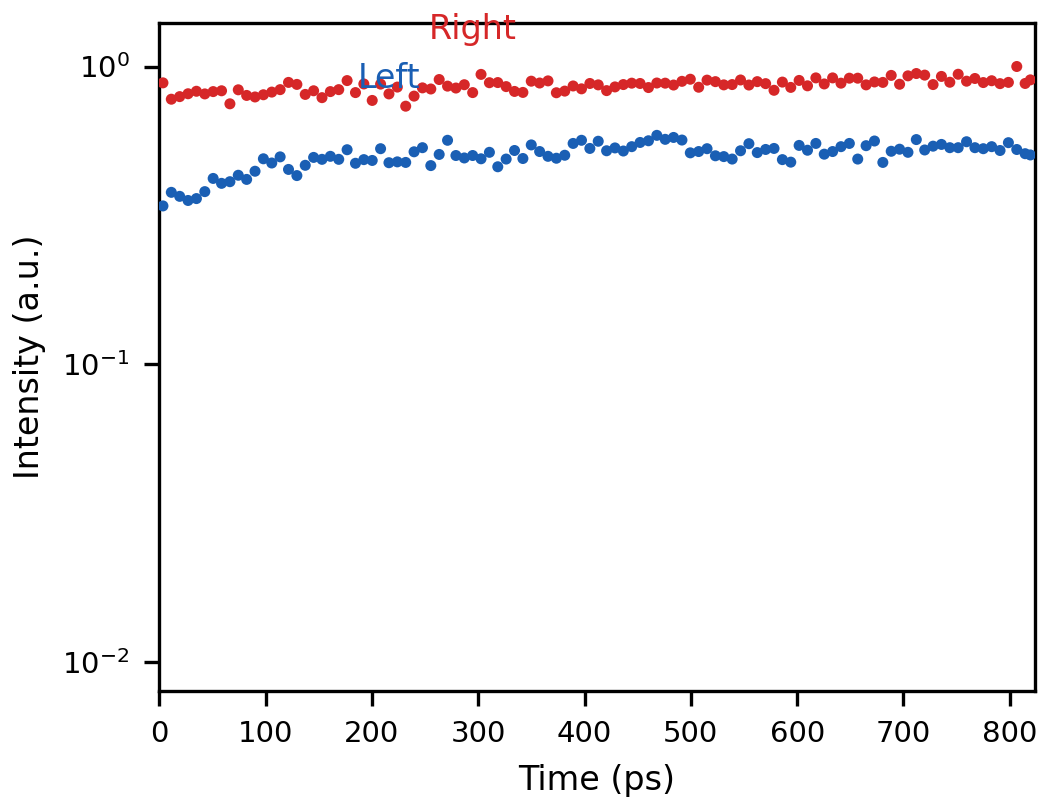
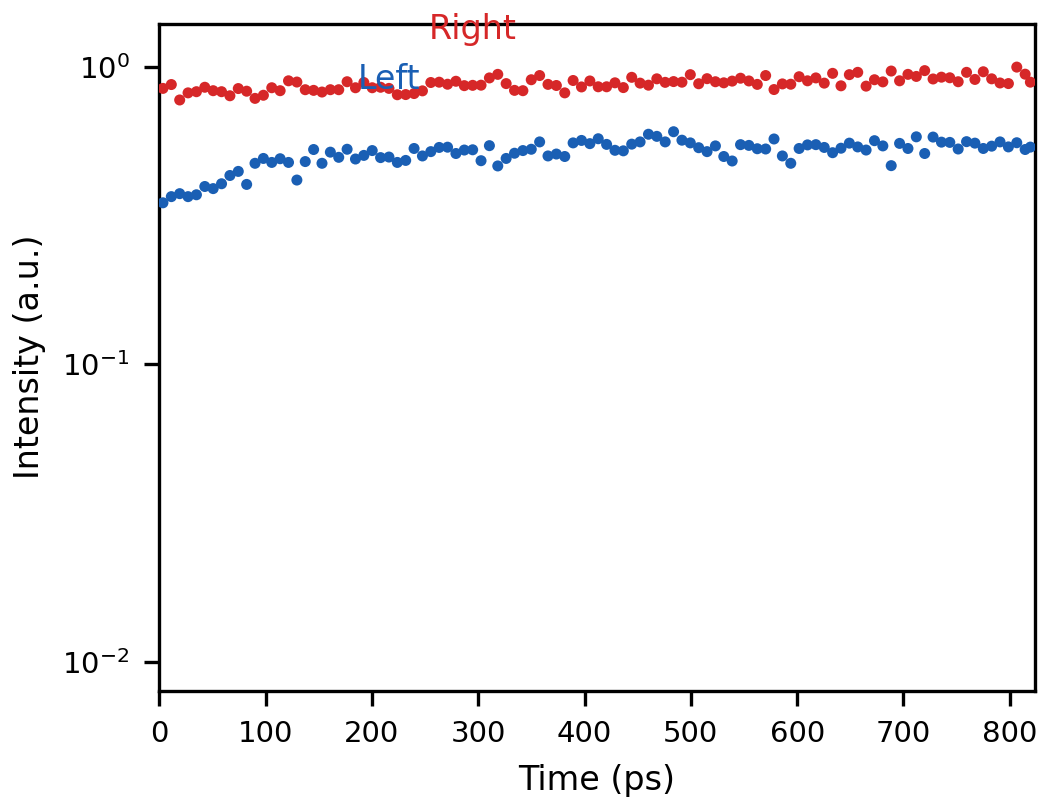
docs+定稿图: CFD50 全量重跑 Fig. 2(a) 管线, 实空间零结果不变
- 全 20000 帧 CFD50 重跑 (8 帧 t0 失败): 带检测/配对不变,
  t0 中位行 154.78 (较质心 -2.78 px)
- 零结果坐实: 两臂 z 相关 r=0.030/0.095 (p=0.525/0.145),
  3-200 ps 正弦振幅 95% 上限中位 0.0123/最差 0.0193,
  37.2/41.8 ps 处上限 0.011/0.012
- 质心 vs CFD50 全量对比 (19992 帧): +2.776 px, 逐帧差 std 1.366 px,
  坐实 2000 帧抽样数字
- 真实参考脉冲形状的合成恢复验证: CFD50 偏差 -0.10 px/std 0.33 px,
  同帧质心 +2.71 px/std 1.25 px, 9.84 ps 注入振荡恢复 9.87 ps
- fig2a_replica.png/pdf 更新为 CFD50 运行产物

Model: kimi-code/k3
Thinking: max

diff --git a/docs/26-08-04-fig2a.md b/docs/26-08-04-fig2a.md
@@ -8,7 +8,9 @@
 
 - `analysis/26-08-04-derived-hbt-time-reference/extract_hbt_traces.py`：逐帧处理。
   每帧用固定位置的脉冲激光参考点定时间零点（ROI 加宽为 (110,210) 行 × (170,215) 列后的
-  half-max 行质心；背景用实测 `StreakCamBackG`（≈105 counts/px）扣除）；光子事件检测
+  **前沿恒比定时 CFD50**（`--t0-method cfd50`，默认；旧 half-max 行质心保留为
+  `--t0-method centroid`；选择依据见 `docs/08-04_sync_oscillation.md`）；背景用实测
+  `StreakCamBackG`（≈105 counts/px）扣除）；光子事件检测
   （8-连通组分、阈值 25 counts、min_size 2 px，阈值由灵敏度扫描的拐点确定）；带迹线按
   亚行插值对齐到公共时间栅后累计 mean/SEM；同时保留 analog（扣背景计数）与 photon
   （事件计数）两种迹线。
@@ -18,13 +20,47 @@
   臂配对 {B1,B2}、{B3,B4}（臂内间距 210/215 px ≈ 实空间双 mesa 间距 204 px）；L={B1,B3}、
   R={B2,B4}（两臂 L/R 强度比 0.586/0.579 ≈ 无脉冲实空间标定 0.578；交叉配对给出 0.59/1.51，排除）。
   L↔低 x 的命名沿用 streak 保持实空间次序的假设。
-- 时间轴：1 ns / 1016 px = 0.984 ps/px；t0 = 参考点行（样品脉冲与参考点延迟实测
+- 时间轴：1 ns / 1016 px = 0.984 ps/px；t0 = 参考脉冲前沿 50% 穿越行（样品脉冲与参考点延迟实测
   0.32 ± 0.20 ps，≈0）。纵轴方向仍为 row 0 = 窗口起点的约定，未经数据内标定。
 
-## 结果
+## 结果（CFD50 定时，2026-08-06 重跑）
 
 定稿图：`analysis/26-08-04-derived-hbt-time-reference/fig2a_replica.png`
-（photon 源，rebin 8 ≈ 7.9 ps/bin，0–820 ps，峰值归一）。
+（photon 源，rebin 8 ≈ 7.9 ps/bin，0–820 ps，峰值归一；现为 CFD50 运行产物）。
+
+中间产物在 `drafts/26-08-06_fig2a_cfd50/`（Git 忽略）：`hbt_traces.npz`、
+`bands_report.json`、`aligned_sum.png`、`column_profile.png`、`t0_hist.png`、
+`z_crossarm_check.png`、`z_sinusoid_upper_limit.png`、`t0_method_comparison.png`、
+`synthetic_recovery_cfd50.png`。
+
+- 20000 帧处理，8 帧 t0 失败（质心运行 7 帧）；t0 中位行 154.78（质心运行 157.56，
+  差 −2.78 px：时间原点按新定义整体提前 ~2.7 ps，与抽样预期一致）；t0 rms 抖动
+  13.17 ps（质心运行 13.09 ps——抖动由真实同步扫描漫游主导，两种估计量几乎相同）。
+- 带检测与配对不变：同样四条带 B1–B4，自动配对仍给出 L={B1,B3}、R={B2,B4}。
+- **结论不变：未见反相交替振荡。** I_R 平稳；t≲60–150 ps 的 L 侧缺口单调恢复依旧
+  （过阻尼式弛豫）。两臂交叉校验：z 去趋势涨落相关 r=0.030（rebin 2，置换 p=0.525）、
+  0.095（rebin 4，p=0.145），均不显著；3–200 ps 周期 z 正弦振幅 95% 上限
+  中位 0.0123、最差 0.0193（质心运行 0.013–0.020）；在 k 空间测得的周期处针对性拟合：
+  37.2 ps 处 |A|=0.0031（95% 上限 0.0107）、41.8 ps 处 0.0040（0.0115）、9.84 ps 处
+  0.0041（0.0116）；analog 源 37.2/41.8 ps 上限 0.0061/0.0074。
+- 即：`docs/08-04_sync_oscillation.md` 的预判被全量证实——1.3 ps 级跟踪误差不是
+  实空间零结果的原因；换上方法论正确的 CFD50 后零结果原样成立，且系统性误差源
+  （形状呼吸被质心误跟踪）已排除。
+- 质心 vs CFD50 全量逐帧对比（19992 配对帧，`t0_method_comparison.png`）：
+  质心 − CFD50 均值 +2.776 px ≈ +2.73 ps（质心被重尾拖晚），逐帧差 std
+  1.366 px ≈ 1.34 ps（形状呼吸跟踪差）——把 2000 帧抽样数字（+2.72 px、1.2–1.5 ps）
+  坐实到全统计。
+- 真实形状合成恢复验证（`synthetic_recovery_cfd50.png`，脚本
+  `tmp/fig2a_synthetic_recovery_cfd50.py`）：参考点改为随机抽取的**实测**参考脉冲
+  patch（真实非高斯形状 + 真实逐帧呼吸，替代旧验证的高斯斑），注入 9.84 ps 周期、
+  z 振幅 0.5 反相振荡。结果：CFD50 t0 偏差 −0.10 px、std 0.33 px；同帧质心偏差
+  +2.71 px、std 1.25 px（与实数据差值完全互洽）；振荡恢复 9.87 ps。
+  旧高斯验证（`drafts/26-08-04_fig2a/synthetic_recovery_validation.png`）：t0 偏差
+  0.03 px、std 0.38 px，恢复 9.87 ps。
+
+## 质心法定时的旧结果（2026-08-05，存档）
+
+旧定稿图已被 CFD50 版本覆盖；旧中间产物保留在 `drafts/26-08-04_fig2a/`：
 
 - I_R 在整个窗口平稳；I_L/I_R ≈ 0.587（与 0.578 标定一致）。
 - **未见反相交替振荡。** 在平均迹线上，t≲60 ps 处有一个 L 侧缺口单调恢复
@@ -36,7 +72,8 @@
   故定稿图未画灰区（该灰区语义对平坦迹线会产生误导）。
 - 机器灵敏度验证：合成帧（同等背景、同等双态 t0 漂移、注入 9.84 ps 周期、z 振幅 0.5 的
   反相振荡）经同一管线恢复出 9.87 ps 周期，t0 估计偏差 0.03 px、std 0.38 px——
-  管线若面对锁相交替信号足以测到。
+  管线若面对锁相交替信号足以测到（注意：该验证的参考点是对称高斯斑，
+  未考验真实非高斯形状的跟踪；真实形状版本见上节）。
 
 ## 振荡在哪里：k 空间同步扫描条件（2026-08-06 补充）
 
@@ -69,8 +106,9 @@
 
 ## 注意事项
 
-- t0 存在双态/宽带漂移（rms 13.1 ps，去慢漂移后 8.4 ps；帧失败 7/20000）。逐帧对齐
-  已按参考点修正；若 streak sweep 在两态间不仅是平移（如扫速变化），残余系统误差不在本分析内。
+- t0 存在双态/宽带漂移（CFD50 运行：rms 13.2 ps；帧失败 8/20000）。逐帧对齐
+  已按参考点修正；若 streak sweep 在两态间不仅是平移（如扫速变化），残余系统误差不在本分析内
+  （两态平均廓线几乎重合、态间距差 0.09 ps 的检验见 `docs/08-04_sync_oscillation.md`）。
 - 本结果针对**平均**迹线；experiment-plan.md Gate 1 的第二问（单次 Stark 事件轨迹内是否
   有可分辨振荡）需要逐帧/层级分析，本管线未回答。
 - 参考点 x 位置固定（漂移 <0.01 px/1000 帧）。
@@ -79,12 +117,19 @@
 
 ```powershell
 # 在包含本文件的 worktree/检出根目录；H5 路径按实际位置调整
+# CFD50 定时间零点的全量提取（默认 --t0-method cfd50；旧质心法为 centroid）
 .\.venv\Scripts\python.exe analysis\26-08-04-derived-hbt-time-reference\extract_hbt_traces.py `
   --h5 E:\Documents\Codex\joris-homodyne\DATA\26-08-04-derived-hbt-time-reference\26-08-04_hbt_time_reference.h5 `
-  --out-dir drafts\26-08-04_fig2a
+  --out-dir drafts\26-08-06_fig2a_cfd50
 .\.venv\Scripts\python.exe analysis\26-08-04-derived-hbt-time-reference\render_fig2a.py `
+  --npz drafts\26-08-06_fig2a_cfd50\hbt_traces.npz `
   --bands-l 0,2 --bands-r 1,3 --rebin 8 --t-min 0 --t-max 820 --snr-threshold 0 `
-  --out drafts\26-08-04_fig2a\fig2a_replica_final.png
+  --out drafts\26-08-06_fig2a_cfd50\fig2a_replica_cfd50.png
+# z 交叉臂检验 / 正弦振幅上限 / 质心-CFD50 逐帧对比 / 真实形状合成验证
+.\.venv\Scripts\python.exe tmp\fig2a_z_crossarm_cfd50.py
+.\.venv\Scripts\python.exe tmp\fig2a_upper_limit_cfd50.py
+.\.venv\Scripts\python.exe tmp\fig2a_t0_method_comparison.py
+.\.venv\Scripts\python.exe tmp\fig2a_synthetic_recovery_cfd50.py
 # 未对齐分块累计 + preview 扣背景总和图 + 分块功率谱
 .\.venv\Scripts\python.exe analysis\26-08-04-derived-hbt-time-reference\accumulate_block_traces.py `
   --h5 E:\Documents\Codex\joris-homodyne\DATA\26-08-04-derived-hbt-time-reference\26-08-04_hbt_time_reference.h5 `
@@ -96,8 +141,6 @@
   --out drafts\26-08-04_fig2a\kspace_fringe_oscillation.png
 ```
 
-中间产物（npz 迹线存储、诊断图、验证图）在 `drafts/26-08-04_fig2a/`（Git 忽略）：
-`hbt_traces.npz`、`aligned_sum.png`、`column_profile.png`、`t0_hist.png`、
-`z_crossarm_check.png`、`z_sinusoid_upper_limit.png`、`synthetic_recovery_validation.png`、
-`block_full/`（未对齐总和与 10 帧分块迹线 npy、分块功率谱图）、`kspace_fringe_oscillation.png`。
-单元测试：`tests/test_extract_hbt_traces.py`（15 项）。
+中间产物（npz 迹线存储、诊断图、验证图）：CFD50 运行在 `drafts/26-08-06_fig2a_cfd50/`
+（Git 忽略），质心旧运行在 `drafts/26-08-04_fig2a/`（含 `block_full/` 分块分析、
+`kspace_fringe_oscillation.png`）。单元测试：`tests/test_extract_hbt_traces.py`（22 项）。

diff --git a/docs/08-04_sync_oscillation.md b/docs/08-04_sync_oscillation.md
@@ -46,11 +46,19 @@
 | 质心 − CFD50 逐帧差 std | 1.2–1.5 px ≈ 1.3 ps (形状呼吸跟踪差) |
 | 幅度游动 (峰高变 100%) | 质心 −0.54 ps; CFD50 −0.36 ps; CFD20 −0.24 ps |
 
-注意: t0 的绝对定义改变 → Fig. 2(a) 时间原点整体提前 ~2.7 ps。另外需复查旧的合成注入恢复验证用的参考点形状——若合成参考点是对称形状, 该验证并未考验对真实非高斯脉冲的跟踪, 需用真实参考脉冲形状重做。
+注意: t0 的绝对定义改变 → Fig. 2(a) 时间原点整体提前 ~2.7 ps。旧合成注入恢复验证的参考点是对称高斯斑, 未考验对真实非高斯脉冲的跟踪——已用真实参考脉冲形状重做 (2026-08-06, 见下「CFD50 全量重跑」)。
+
+### CFD50 全量重跑 Fig. 2(a) 管线 (2026-08-06)
+
+`extract_hbt_traces.py --t0-method cfd50` (新默认) 全 20000 帧重跑完成, 详见 `docs/26-08-04-fig2a.md`:
+
+- 上表抽样数字被全统计坐实 (19992 配对帧): 质心 − CFD50 均值 +2.776 px ≈ +2.73 ps, 逐帧差 std 1.366 px ≈ 1.34 ps。
+- **实空间零结果不变**: 两臂 z 涨落相关 r=0.030/0.095 (p=0.525/0.145), 3–200 ps 正弦振幅 95% 上限中位 0.0123、最差 0.0193, k 空间周期处 (37.2/41.8 ps) 上限 0.011/0.012 —— 「定时方法不足以解释零结果」的预判由全量数据证实。
+- 真实形状合成验证 (`tmp/fig2a_synthetic_recovery_cfd50.py`): 参考点用随机抽取的实测脉冲 patch (真实形状+呼吸), CFD50 t0 偏差 −0.10 px、std 0.33 px, 同帧质心 +2.71 px、std 1.25 px (与实数据互洽), 注入的 9.84 ps 振荡恢复为 9.87 ps。
 
 ### 对「上一轮没找到振荡」的诚实评估
 
-- 1.3 ps 的随机跟踪误差对相干幅度的衰减: 37 ps 周期 (k 空间实测) 仅 ~2%, 9.8 ps 周期 ~30% —— 定时方法本身不足以解释实空间零结果, 但它是方法论上正确的选择, 且消除了一个随形状呼吸的系统误差源。
+- 1.3 ps 的随机跟踪误差对相干幅度的衰减: 37 ps 周期 (k 空间实测) 仅 ~2%, 9.8 ps 周期 ~30% —— 定时方法本身不足以解释实空间零结果, 但它是方法论上正确的选择, 且消除了一个随形状呼吸的系统误差源。(2026-08-06 全量重跑已证实, 见上节。)
 - 仍开放的时间标定缺口: 行→ps 换算 (0.984 ps/px) 与 row 0 约定来自采集元数据, 未经数据内标定; 参考脉冲定时只解决逐帧对齐, 不解决绝对时间轴。
 
 ## CFD50 vs 高斯拟合中轴: 200 帧对比证据 (2026-08-06)
